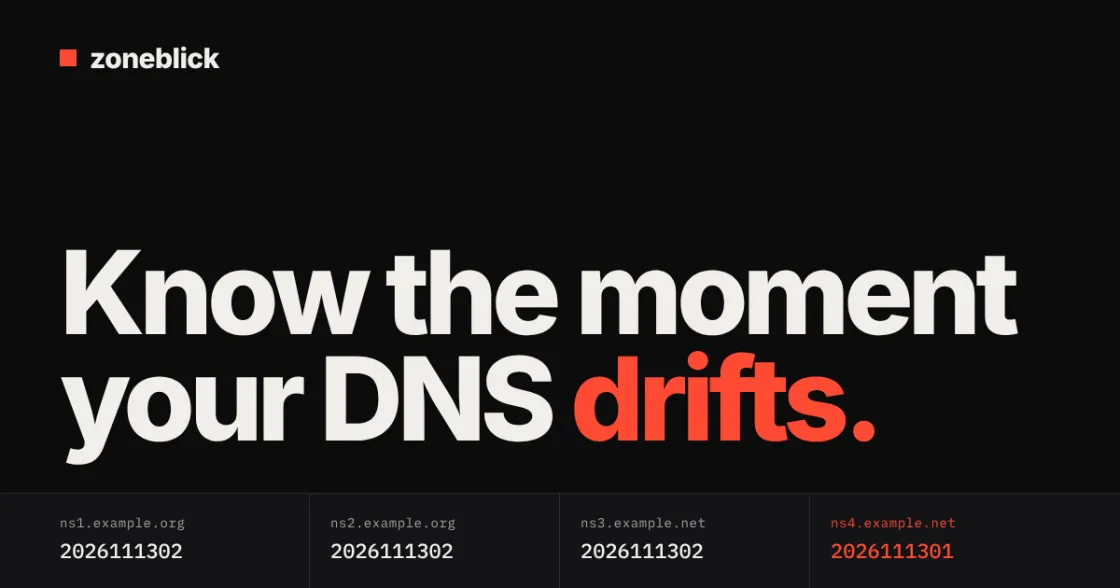
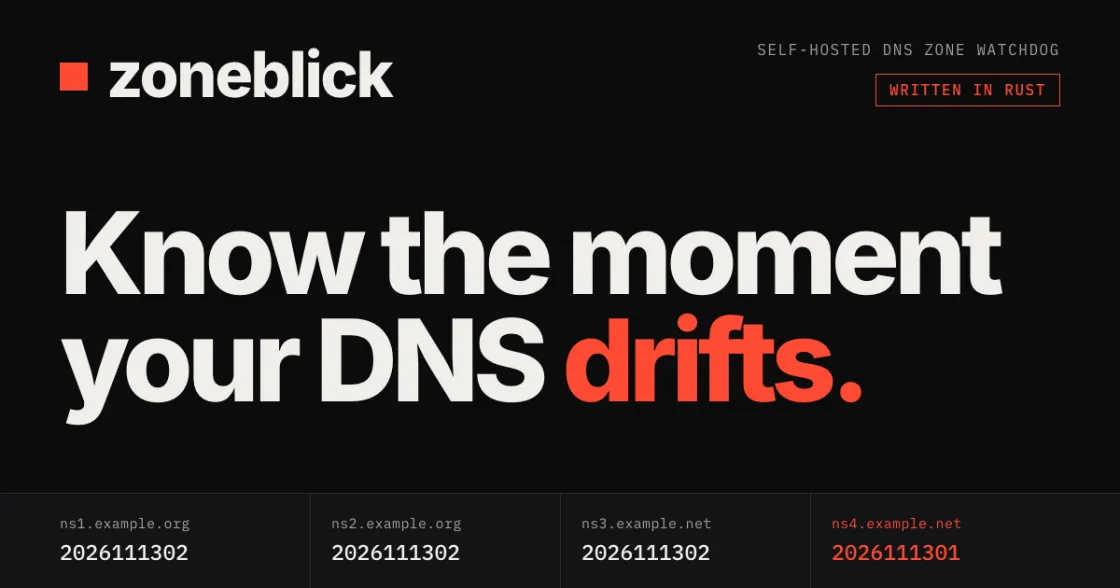
Workshop: zoneblick out of development, new og:image
zoneblick drops its 'In development' ribbon: the one-shot check command
is released, so the bulb strip is lit. The card carries the site's new
og:image, unaltered now that no ribbon hangs over its corner, and moves
up above Fotobogen and Utenat.

In-development tools always sit at the bottom of The Workshop, however
many there are; a catalog test enforces it. v2.14.0.

diff --git a/app/data/catalog.ts b/app/data/catalog.ts
@@ -205,7 +205,7 @@ export const zones: Zone[] = [
     sign: 'The Workshop',
     color: '#00d6ff',
     title: 'Tools I build and use.',
-    sub: 'Software for writing scripts and stories, taking old machines apart, putting photos on the wall, and keeping an eye on the coffee — plus the everyday tools I wrote for work: a Markdown editor, placeholder text, image compression and an accessibility checker for documents. Next on the bench: Fotobogen, for publishing photographs, Utenat, for learning lines by heart, and zoneblick, for watching your DNS. Free, open source, no sign-ups, and your files stay yours.',
+    sub: 'Software for writing scripts and stories, taking old machines apart, putting photos on the wall, keeping an eye on the coffee, and watching your DNS — plus the everyday tools I wrote for work: a Markdown editor, placeholder text, image compression and an accessibility checker for documents. Next on the bench: Fotobogen, for publishing photographs, and Utenat, for learning lines by heart. Free, open source, no sign-ups, and your files stay yours.',
     unit: 'tool',
     items: [
       {
@@ -313,6 +313,23 @@ export const zones: Zone[] = [
         category: 'UtilitiesApplication'
       },
       {
+        // An early pre-release: the one-shot `zoneblick check` command works; the
+        // daemon, history and web UI are still to come. Not flagged "In development".
+        title: 'zoneblick',
+        description: 'A self-hosted DNS zone watchdog, written in Rust. It asks every authoritative nameserver directly and checks the answers, so you know the moment your DNS drifts. An early release: the one-shot check command works today.',
+        domain: 'zoneblick.com',
+        repo: 'https://github.com/cschweda/zoneblick',
+        icon: 'radar',
+        accent: '#ff4a33',
+        badge: 'DNS zone watchdog',
+        badgeNote: 'self-hosted, in Rust',
+        span: 'shot',
+        shot: '/workshop/zoneblick.webp',
+        category: 'DeveloperApplication'
+      },
+      // Cabinets flagged "In development" always go last in the zone, however many
+      // there are: a finished tool is added above this line, never below it.
+      {
         // No repo yet: the app is planned but not started, and fotobogen.com is a
         // one-page teaser. Add `repo` when there is one.
         title: 'Fotobogen',
@@ -343,24 +360,6 @@ export const zones: Zone[] = [
         shot: '/workshop/utenat.webp',
         status: 'In development',
         category: 'EducationalApplication'
-      },
-      {
-        // In development: the repository holds the design and the website, and
-        // zoneblick.com is the landing page. The og:image prints a "Self-hosted DNS
-        // zone watchdog" label where the ribbon hangs; the card copy has that label
-        // painted out so the two do not collide.
-        title: 'zoneblick',
-        description: 'A self-hosted DNS zone watchdog. It asks every authoritative nameserver directly, checks the answers, and keeps a history, so you know the moment your DNS drifts. In development.',
-        domain: 'zoneblick.com',
-        repo: 'https://github.com/cschweda/zoneblick',
-        icon: 'radar',
-        accent: '#ff4a33',
-        badge: 'DNS zone watchdog',
-        badgeNote: 'self-hosted',
-        span: 'shot',
-        shot: '/workshop/zoneblick.webp',
-        status: 'In development',
-        category: 'DeveloperApplication'
       }
     ]
   },

diff --git a/test/catalog.spec.ts b/test/catalog.spec.ts
@@ -40,7 +40,6 @@ describe('catalog', () => {
     // ship without one (the link affordance just stays off) — but it must be
     // named here deliberately, never forgotten.
     // Fotobogen and Utenat are in development: neither has a repository yet.
-    // (zoneblick is in development too, but its repository is public.)
     expect(allItems.filter(i => !i.repo).map(i => i.domain)).toEqual(['fotobogen.com', 'utenat.com'])
 
     const repos = allItems.map(i => i.repo).filter(Boolean)
@@ -105,7 +104,17 @@ describe('catalog', () => {
     for (const item of allItems) {
       if (item.status) expect(Boolean(item.shot), item.domain).toBe(true)
     }
-    expect(allItems.filter(i => i.status).map(i => [i.domain, i.status])).toEqual([['fotobogen.com', 'In development'], ['utenat.com', 'In development'], ['zoneblick.com', 'In development']])
+    expect(allItems.filter(i => i.status).map(i => [i.domain, i.status])).toEqual([['fotobogen.com', 'In development'], ['utenat.com', 'In development']])
+  })
+
+  // Standing rule: in-development cabinets sit at the bottom of their zone, however
+  // many there are. Nothing finished may follow one.
+  it('keeps in-development cabinets last in their zone', () => {
+    for (const zone of zones) {
+      const flags = zone.items.map(i => Boolean(i.status))
+      const first = flags.indexOf(true)
+      if (first !== -1) expect(flags.slice(first).every(Boolean), zone.id).toBe(true)
+    }
   })
 
   it('uses unique domains', () => {

diff --git a/README.md b/README.md
@@ -57,26 +57,27 @@ development have no repository yet.
 | Ipsumify | `ipsumify.com` | [source](https://github.com/ICJIA/ipsumify-next-2026) | Lorem ipsum placeholder text with Markdown support, themed variants and a free public API. |
 | Squish | `squish.icjia.app` | [source](https://github.com/ICJIA/icjia-squish-2026) | Image compression in the browser, with a real-time preview and no uploads. |
 | ICJIA Accessibility Audit | `audit.icjia.app` | [source](https://github.com/ICJIA/file-accessibility-audit) | An accessibility checker for PDF, Word, PowerPoint and Excel: a WCAG 2.1 AA score with fix-it guidance. |
+| zoneblick | `zoneblick.com` | [source](https://github.com/cschweda/zoneblick) | A self-hosted DNS zone watchdog, written in Rust: it asks every authoritative nameserver directly and checks the answers, so you know when your DNS drifts. An early release. |
 | Fotobogen | `fotobogen.com` (teaser) | no repo yet | Free, open-source software for running your own photo website. **In development**; the card wears a ribbon saying so. |
 | Utenat | `utenat.com` (placeholder) | no repo yet | Free, open-source software for memorizing anything you need to say aloud: a monologue, a speech, a poem, a part in a scene. **In development**, with the same ribbon. |
-| zoneblick | `zoneblick.com` (landing page) | [source](https://github.com/cschweda/zoneblick) | A self-hosted DNS zone watchdog: it asks every authoritative nameserver directly, checks the answers and keeps a history, so you know when your DNS drifts. **In development**, with the same ribbon. |
 
 The four ICJIA tools (the Markdown editor, Ipsumify, Squish and the Accessibility Audit)
 were written for work at ICJIA, and for my own use; their source lives under the ICJIA
 GitHub organisation.
 
-Fotobogen, Utenat and zoneblick are **in development**. Each links to a page announcing
-it, wears an "In development" ribbon across the corner of its picture, and keeps its
-bulb strip unlit. Fotobogen and Utenat have no source link because there is no
-repository yet; zoneblick's repository is public (design and website so far), so its
-card links it. (Utenat's and zoneblick's og:images each print a label in the ribbon's
-corner; the copies in `public/workshop/` have it painted out so the ribbon does not
-collide with it.)
+Fotobogen and Utenat are **in development**. Each links to a placeholder page announcing
+it, has no source link because there is no repository yet, wears an "In development"
+ribbon across the corner of its picture, and keeps its bulb strip unlit. (Utenat's
+og:image prints its own "In development" label in that corner; the copy in
+`public/workshop/` has it painted out so the ribbon does not collide with it.)
+
+**In-development tools always go at the bottom of The Workshop**, however many there
+are: a finished tool is added above them, never below. A test holds the catalog to it.
 
 The Workshop's cabinets lead with each app's own og:image, copied into
 `public/workshop/` as WebP (the CSP is `img-src 'self'`, so the cards never load
 another origin's image). aiden-portal has no og:image of its own (it is not a public
-site), so its picture was made for this page. There are eleven tools, two to a row; the eleventh sits alone. Every card is the same size: the tallest sets the height for the rest.
+site), so its picture was made for this page. There are eleven tools, two to a row; the eleventh (Utenat) sits alone. Every card is the same size: the tallest sets the height for the rest.
 
 ### Interactive Fiction — frotz, Inc.
 

diff --git a/CHANGELOG.md b/CHANGELOG.md
@@ -5,6 +5,15 @@ All notable changes to this project are documented here.
 The format is based on [Keep a Changelog](https://keepachangelog.com/en/1.1.0/),
 and this project adheres to [Semantic Versioning](https://semver.org/spec/v2.0.0.html).
 
+## [2.14.0] - 2026-11-13
+
+### Changed
+- **zoneblick** is no longer flagged in development: the ribbon is gone, its bulb strip
+  is lit, and the card carries the site's new og:image (unaltered, now that no ribbon
+  hangs over its corner). It moves up, above Fotobogen and Utenat.
+- In-development tools always sit at the bottom of The Workshop, however many there
+  are. A catalog test enforces it.
+
 ## [2.13.1] - 2026-11-13
 
 ### Changed
